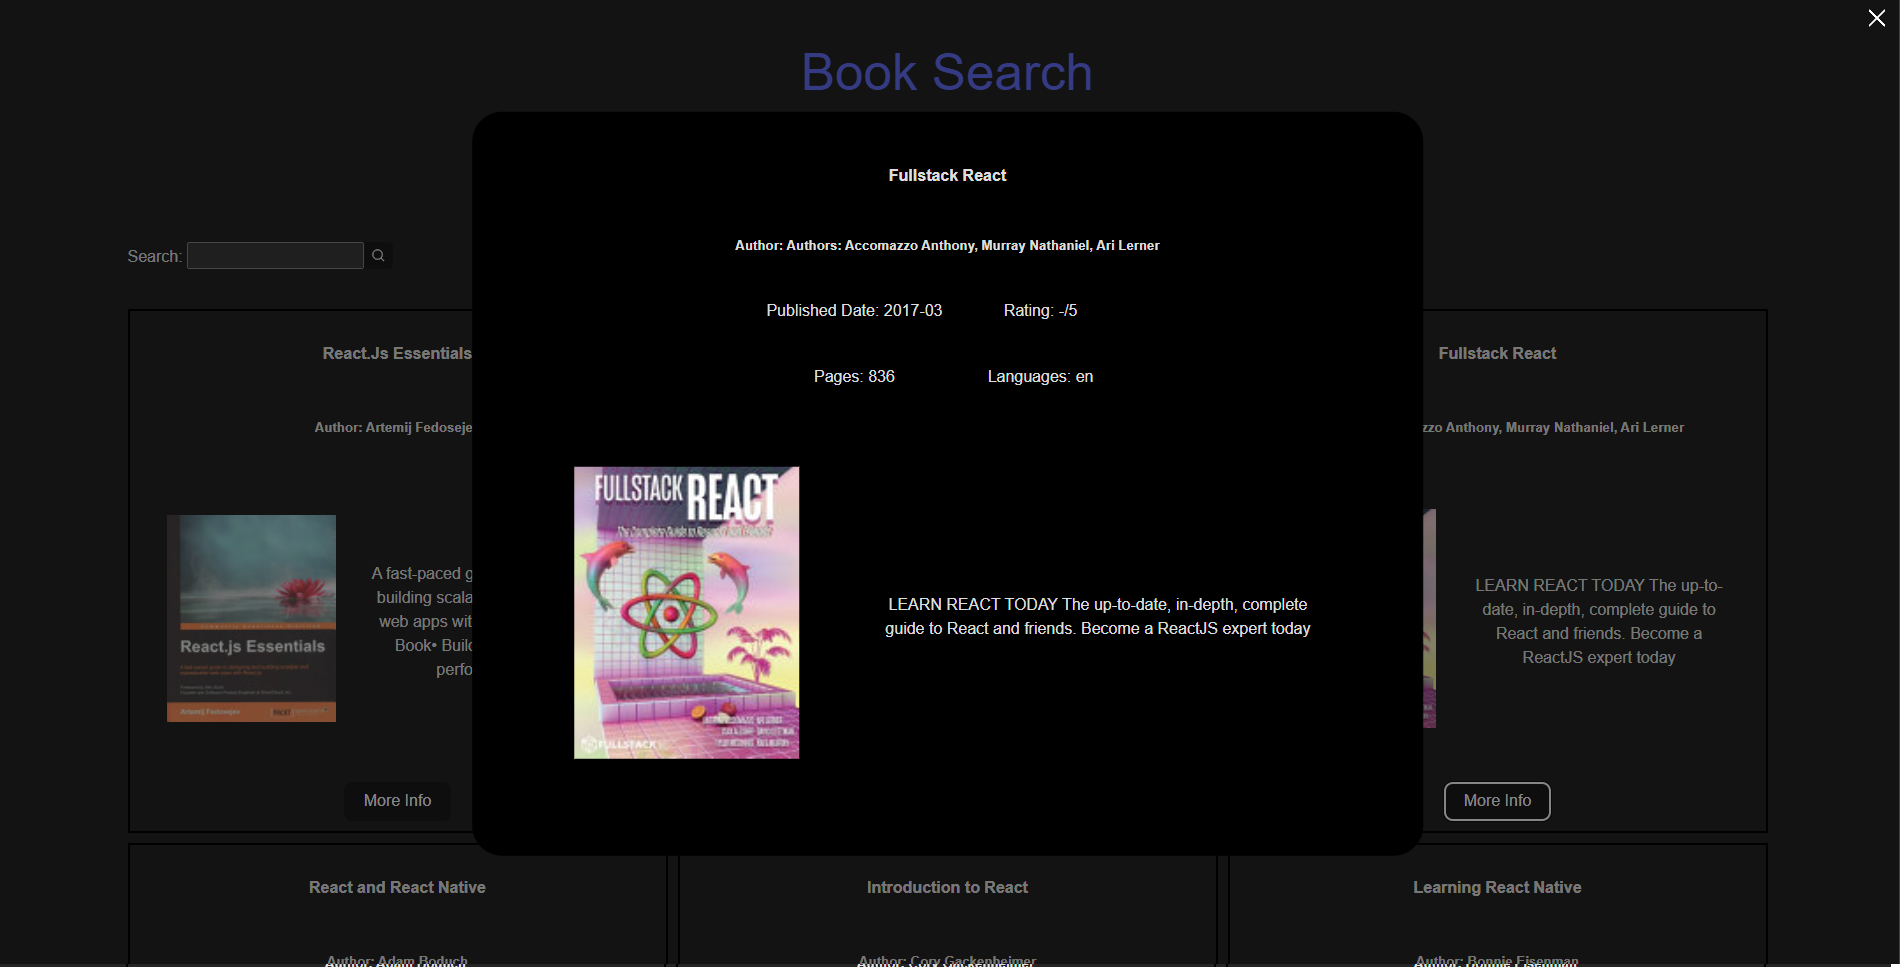
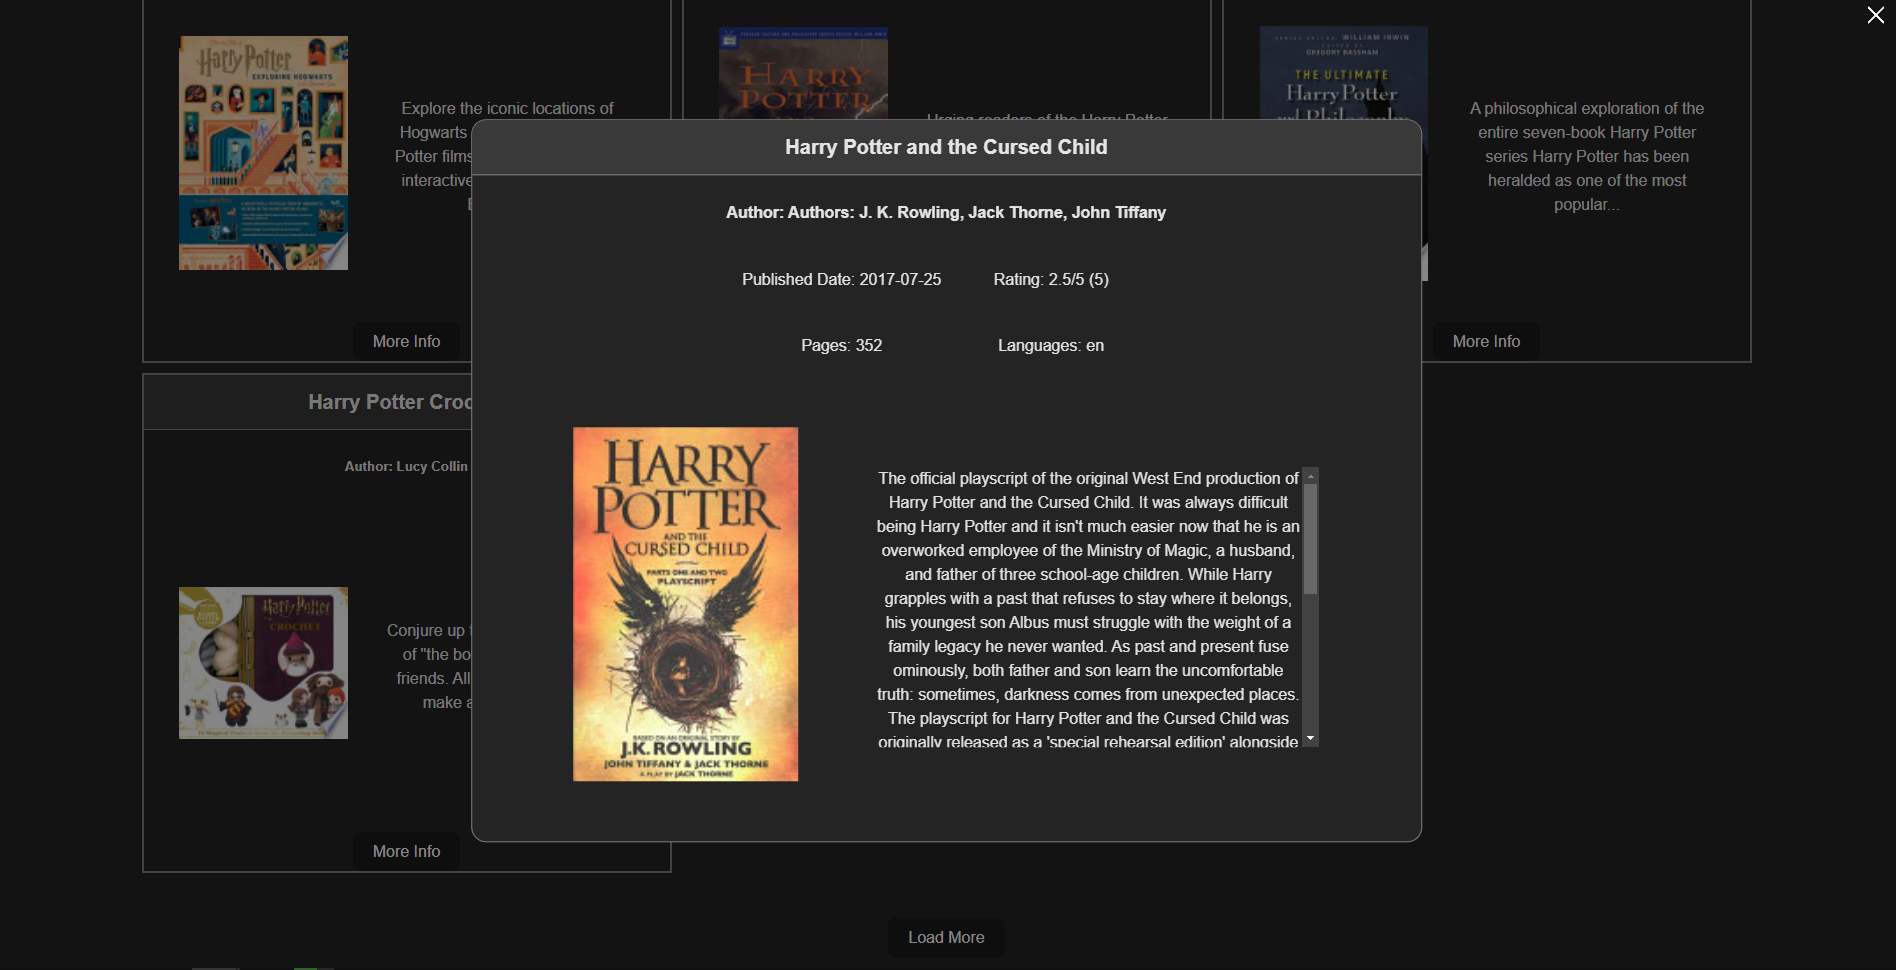
Changed styling and added load more feature to looks more books of the same search

diff --git a/src/App.tsx b/src/App.tsx
@@ -1,12 +1,19 @@
 import { useState, useEffect } from "react";
-import { fetchBooksApiSearch, BookType } from "./api/google-books-api";
-import "./App.css";
+import {
+  fetchBooksApiSearch,
+  BookType,
+  fetchBooksFromIndex,
+} from "./api/google-books-api";
+import styles from "./App.module.css";
 import Header from "./components/Header/Header";
 import Books from "./container/Books-container/Books";
 
 function App() {
   const [booksData, setBooksData] = useState<BookType[]>([]);
   const [error, setError] = useState<string>("");
+  const [bookIndex, setBookIndex] = useState<number>(10);
+  const [searchInput, setSearchInput] = useState("");
+  const [currentSeacrh, setCurrentSearch] = useState<string>("");
 
   const getRandomTitle = (): string => {
     const titles = [
@@ -14,14 +21,18 @@ function App() {
       "Harry Potter",
       "Javascript",
       "React",
-      "twilight",
+      "Twilight",
+      "Pokemon",
     ];
     const random = Math.floor(Math.random() * titles.length);
     return titles[random];
   };
 
   useEffect(() => {
-    fetchBooksApiSearch(getRandomTitle())
+    const randomTitle = getRandomTitle();
+    setSearchInput(randomTitle);
+    setCurrentSearch(randomTitle);
+    fetchBooksApiSearch(randomTitle)
       .then((data) => {
         setError("");
         setBooksData(data);
@@ -35,6 +46,7 @@ function App() {
   ) => {
     try {
       e.preventDefault();
+      setCurrentSearch(searchInput);
       setError("");
       setBooksData([]);
       const response = await fetchBooksApiSearch(searchInput);
@@ -47,6 +59,13 @@ function App() {
     }
   };
 
+  const fetchMore = async () => {
+    let newIndex = bookIndex + 10;
+    setBookIndex((prev) => prev + 10);
+    const data = await fetchBooksFromIndex(currentSeacrh, newIndex);
+    setBooksData([...booksData, ...data]);
+  };
+
   return (
     <div className="App">
       <Header />
@@ -54,7 +73,12 @@ function App() {
         error={error}
         fetchWithSearchInput={fetchWithSearchInput}
         booksData={booksData}
+        searchInput={searchInput}
+        setSearchInput={setSearchInput}
       />
+      <div className={styles.FetchMoreBtnContainer}>
+        <button onClick={() => fetchMore()}>Load More</button>
+      </div>
     </div>
   );
 }

diff --git a/src/api/google-books-api.tsx b/src/api/google-books-api.tsx
@@ -22,7 +22,61 @@ export const fetchBooksApiSearch = async (
 
   const response = await fetch(`${BASE_URL}${searchInput}`);
   const data = await response.json();
-  console.log(data);
+
+  if (data.error) {
+    throw new Error(data.error.message);
+  }
+
+  if (!data.items) {
+    throw new Error(
+      `Sorry, no books were found searching with "${searchInput}"`
+    );
+  }
+
+  const organisedData = data.items.map((item: any) => {
+    const descCopy = item.volumeInfo.description ?? item.volumeInfo.description;
+
+    let shortDescription = descCopy;
+    // Checking if description is more than 25 words long if so get 21 words and add "..."
+    if (descCopy && descCopy.split(" ").length > 25) {
+      shortDescription = descCopy?.split(" ").slice(0, 21).join(" ") + "...";
+    }
+
+    const author = item.volumeInfo.authors;
+    const authorData =
+      Array.isArray(author) && author?.length > 1
+        ? `Authors: ${author.join(", ")}`
+        : `Author: ${author}`;
+
+    return {
+      img:
+        item.volumeInfo?.imageLinks?.thumbnail ||
+        "https://hazlitt.net/sites/default/files/default-book.png",
+      author: authorData || "No authors avaliable",
+      description: item.volumeInfo.description || "No description avaliable",
+      shortDescription: shortDescription || "No description avaliable",
+      title: item.volumeInfo.title,
+      publishedDate: item.volumeInfo.publishedDate,
+      pageCount: item.volumeInfo.pageCount,
+      languages: item.volumeInfo.language,
+      rating: item.volumeInfo.averageRating,
+      ratingCount: item.volumeInfo.ratingsCount,
+    };
+  });
+
+  return organisedData;
+};
+
+export const fetchBooksFromIndex = async (
+  searchInput: string,
+  idx: number
+): Promise<BookType[]> => {
+  if (searchInput === "") {
+    throw new Error(`Please enter a title in search input.`);
+  }
+
+  const response = await fetch(`${BASE_URL}${searchInput}&startIndex=${idx}`);
+  const data = await response.json();
 
   if (data.error) {
     throw new Error(data.error.message);

diff --git a/src/components/MoreInfo/MoreInfo.module.scss b/src/components/MoreInfo/MoreInfo.module.scss
@@ -30,13 +30,13 @@
   left: 50%;
   transform: translate(-50%, -50%);
   z-index: 2;
-  border: 1px solid black;
+  border: 1px solid grey;
   display: flex;
   flex-direction: column;
   align-items: center;
-  border-radius: 30px;
-  background-color: black;
-  padding: 30px 30px;
+  border-radius: 15px;
+  background-color: #242424;
+
   justify-content: space-between;
 
   min-height: 70vh;
@@ -46,6 +46,19 @@
   text-align: center;
   @media screen and (min-width: 640px) {
     overflow-y: auto;
+  }
+
+  &__Title {
+    border-bottom: 1px solid grey;
+    width: 100%;
+    background-color: #3a3939;
+    margin: 0;
+    font-size: 20px;
+    padding: 15px 0;
+  }
+
+  &__Author {
+    font-size: 16px;
   }
 
   &__Details {
@@ -60,7 +73,7 @@
     align-items: center;
     flex-direction: column;
     width: 100%;
-    padding: 5px;
+    padding: 30px 30px;
 
     & > :not(:last-child) {
       margin-right: 4px;

diff --git a/src/components/Book/Book.module.scss b/src/components/Book/Book.module.scss
@@ -1,10 +1,10 @@
 .Book {
-  border: 2px solid rgb(0, 0, 0);
+  border: 2px solid grey;
   display: flex;
   flex-direction: column;
   align-items: center;
   min-height: 500px;
-  padding: 10px;
+  //
   text-align: center;
 
   justify-content: space-between;
@@ -14,7 +14,7 @@
     align-items: center;
     justify-content: space-evenly;
     width: 100%;
-
+    padding: 10px;
     & > :not(:last-child) {
       margin-right: 7px;
     }
@@ -37,4 +37,13 @@
     align-items: center;
     justify-content: center;
   }
+}
+
+.Title {
+  border-bottom: 1px solid grey;
+  width: 100%;
+  background-color: #3a3939;
+  margin: 0;
+  font-size: 20px;
+  padding: 15px 0;
 }

diff --git a/src/container/Books-container/Books.tsx b/src/container/Books-container/Books.tsx
@@ -9,10 +9,17 @@ type Props = {
   booksData: BookType[];
   fetchWithSearchInput: Function;
   error: string;
+  searchInput: string;
+  setSearchInput: React.Dispatch<React.SetStateAction<string>>;
 };
 
-const Books = ({ booksData, fetchWithSearchInput, error }: Props) => {
-  const [searchInput, setSearchInput] = useState("");
+const Books = ({
+  booksData,
+  fetchWithSearchInput,
+  error,
+  setSearchInput,
+  searchInput,
+}: Props) => {
   const [moreInfo, setMoreInfo] = useState(false);
   const [moreInfoData, setMoreInfoData] = useState<BookType | null>(null);
 

diff --git a/src/components/Book/Book.tsx b/src/components/Book/Book.tsx
@@ -12,7 +12,7 @@ const Book = ({ bookData, setAndToggleMoreInfo }: Props) => {
 
   return (
     <div className={styles.Book}>
-      <h4>{title}</h4>
+      <h4 className={styles.Title}>{title}</h4>
       <h5>{author}</h5>
       <div className={styles.Book__Img_Desc_Container}>
         <div className={styles.Book__Img_Container}>

diff --git a/src/index.css b/src/index.css
@@ -15,6 +15,10 @@
   -webkit-text-size-adjust: 100%;
 }
 
+* {
+  box-sizing: border-box;
+}
+
 a {
   font-weight: 500;
   color: #646cff;

diff --git a/src/App.module.css b/src/App.module.css
@@ -1,0 +1,6 @@
+.FetchMoreBtnContainer {
+  display: flex;
+  align-items: center;
+  justify-content: center;
+  margin: 10px;
+}
